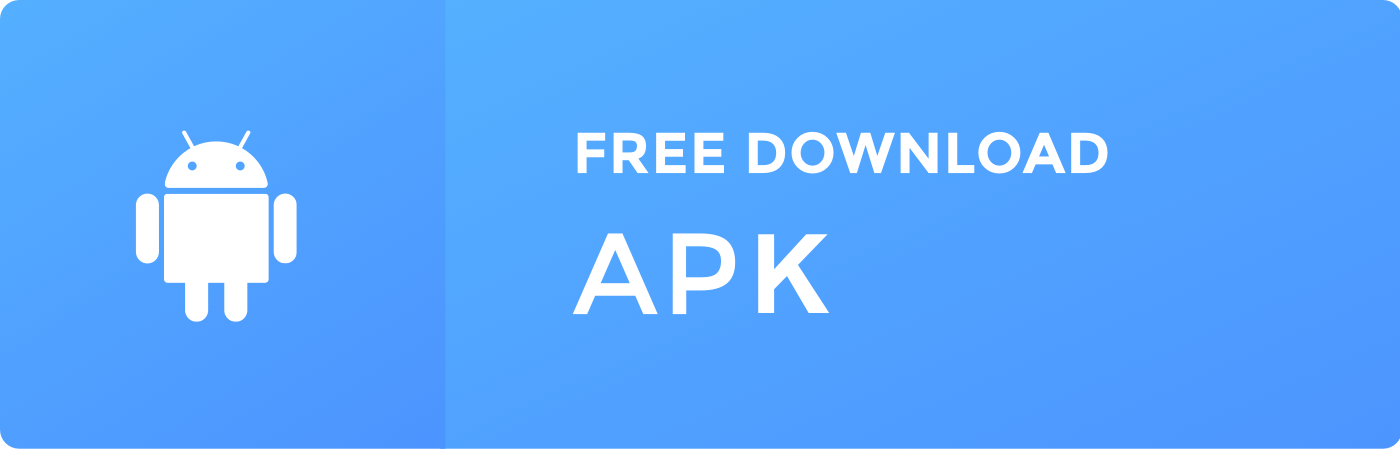
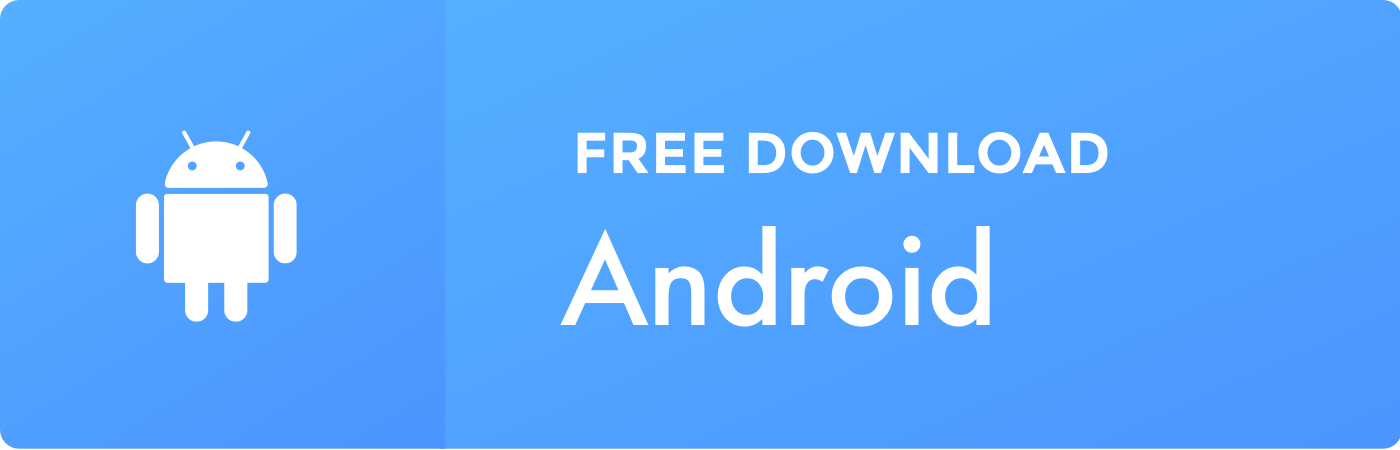
download edit & localize

Changed region(s): [[0.3993, 0.4978, 0.7064, 0.7467]]

diff --git a/index.html b/index.html
@@ -412,40 +412,6 @@
 		</section>
 		<!-- END DEVELOPERS -->
 		
-		<!-- INTERMEDIATE -->
-		<section id="subscribe" class="intermediate" style="background-image:url(images/building2.jpeg);">
-			<div class="container">
-				<div class="row">
-					<div class="col-md-12 aligncenter">
-						<div class="section-title light-color">
-							<h2><span class="thin-text">Subscribe to our</span> Newsletter</h2>
-						</div>
-						<div class="section-sub-title light-color">Get our development news straight to your inbox, see all the exciting changes and what's going on.</div>
-					</div>
-				</div>
-				<div class="row">
-					<div class="col-md-4 col-md-offset-4 col-sm-6 col-sm-offset-3 col-xs-8 col-xs-offset-2">
-						<form action="js/subscribe.php" method="post" id="subscribeForm">
-							<div class="subscribe-form-wrapper">
-								<input type="text" name="semail" placeholder="Email" id="semail" />
-								<div class="info-row honeypot">
-									<input type="text" name="last" id="last" />
-								</div>
-								<button type="submit">
-									<i class="ion-ios-paperplane"></i>
-								</button>
-							</div>
-							<div class="message">
-								<div class="alert"></div>
-							</div>
-						</form>
-						</div>
-					</div>
-				</div>
-			</div>
-		</section>
-		<!-- END INTERMEDIATE -->
-		
 		<!-- FOOTER -->
 		<footer id="footer" class="intermediate footer">
 			<div class="container">

diff --git a/index-zh.html b/index-zh.html
@@ -122,8 +122,8 @@
 					<div class="sub-title false-pd">愉悦而有效率地访问您的成绩，使用 SchoolPower - 一个 <a href="https://www.powerschool.com/" style="color:aqua">PowerSchool</a> 的替代解决方案，支持
 						Android 与 iOS 设备。</div>
 					<div class="home-btn false-pd">
-						<a href="https://apple.com"><img src="images/Android Button.png" alt="" style="height:100px; padding-left:10px; padding-right:10px; padding-top:10px"/></a>
-						<a href="https://apple.com"><img src="images/App Store Button.png" alt="" style="height:100px; padding-left:10px; padding-right:10px; padding-top:10px"/></a>
+						<a href="https://apple.com"><img src="images/Android Button zh.png" alt="" style="height:100px; padding-left:10px; padding-right:10px; padding-top:10px"/></a>
+						<a href="https://apple.com"><img src="images/App Store Button zh.png" alt="" style="height:100px; padding-left:10px; padding-right:10px; padding-top:10px"/></a>
 					</div>
 				</div>
 			</div>
